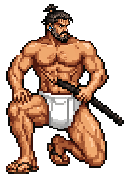
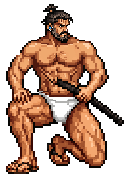
Smaller fundoshi for Takeshi's final stage; rear-pose hunks (Ming, Jay, Talay) no longer wobble the back, only the butt
Claude-Session: https://claude.ai/code/session_01VCzUnoAUkKZrLg4uFbhBUz

Changed region(s): [[0.2812, 0.5, 0.6562, 0.75]]

diff --git a/web/index.html b/web/index.html
@@ -757,7 +757,8 @@ function spriteLayer(d, outfit, src) {
   const a = ART[d.id]; src = src || spriteSrc(a, outfit);
   const reg = k => { const [cx, cy, rx, ry] = a[k]; return `--cx:${(cx / a.w * 100).toFixed(1)}%;--cy:${(cy / a.h * 100).toFixed(1)}%;--rx:${(rx / a.w * 100).toFixed(1)}%;--ry:${(ry / a.h * 100).toFixed(1)}%`; };
   const img = extra => `<img src="${src}" alt="" draggable="false" ${extra || ''}>`;
-  const parts = [a.butt ? 'butt' : 'belly', ...(a.crotch ? ['crotch'] : []), 'pec', 'head'];
+  // rear poses (butt region): no chest patch, otherwise the back itself would wobble
+  const parts = [a.butt ? 'butt' : 'belly', ...(a.crotch ? ['crotch'] : []), ...(a.butt ? [] : ['pec']), 'head'];
   return `<div class="spb" data-b="breath" style="aspect-ratio:${a.w}/${a.h}">${img()}${parts.map(k => img(`class="pt" data-b="${k}" style="${reg(k)}"`)).join('')}</div>`;
 }
 function spritePos(d) { const a = ART[d.id]; return `left:${a.t.x}%;top:${(a.t.y / 140 * 100).toFixed(2)}%;width:${(a.w * a.t.s).toFixed(1)}%`; }

diff --git a/art/build_art.py b/art/build_art.py
@@ -33,7 +33,7 @@ CHARS = {
   'ek': ('chars/ek_A_0.png', 'chars/ek_A1_0.png', 'chars/ek_Bf_0.png'),
   'singh': ('chars/singh_Af_0.png', 'chars/singh_A1f_0.png', 'chars/singh_Bf_0.png'),
   'phupha': ('chars/phupha_Af_0.png', 'chars/phupha_A1f_0.png', 'chars/phupha_Bf_0.png'),
-  'takeshi': ('chars/takeshi_A_0.png', 'chars/takeshi_A1_0.png', 'chars/takeshi_B_0.png'),
+  'takeshi': ('chars/takeshi_A_0.png', 'chars/takeshi_A1_0.png', 'chars/takeshi_Bc_0.png'),
   'talay': ('chars/talay_A_0.png', 'chars/talay_A1_0.png', 'chars/talay_B_0.png'),
   'boxer': ('chars/boxer_A_0.png', 'chars/boxer_A2_0.png', 'chars/boxer_A1_0.png', 'chars/boxer_B_0.png'),
   'hunter': ('chars/hunter_A_0.png', 'chars/hunter_A2_0.png', 'chars/hunter_A1c_0.png', 'chars/hunter_Bc_0.png'),
